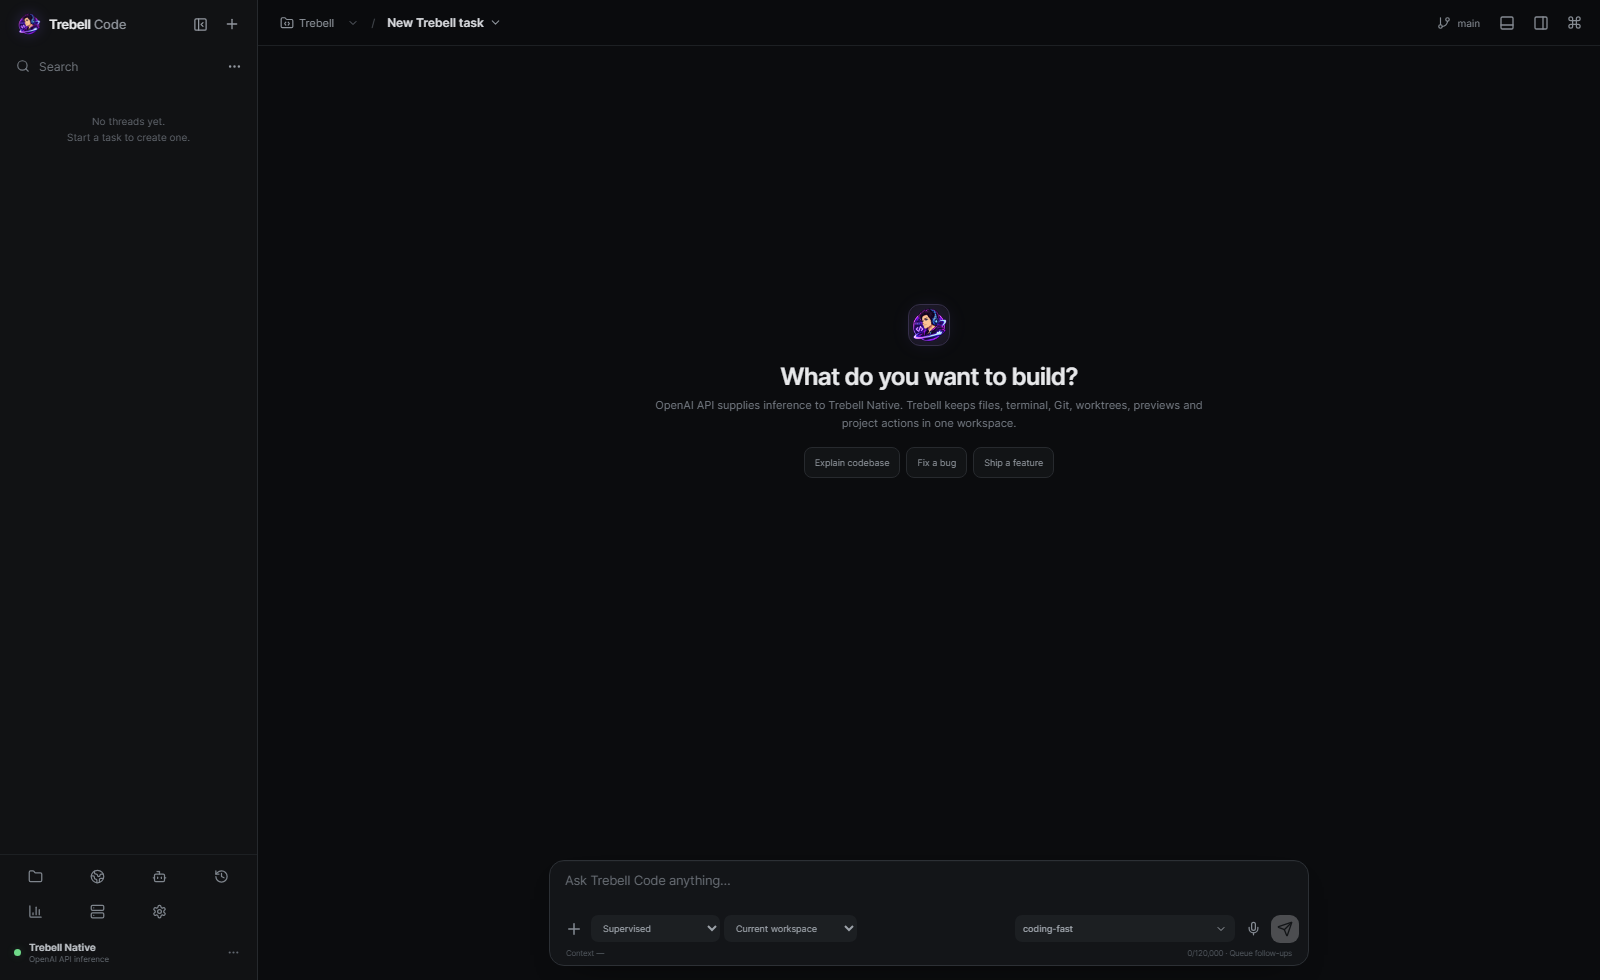
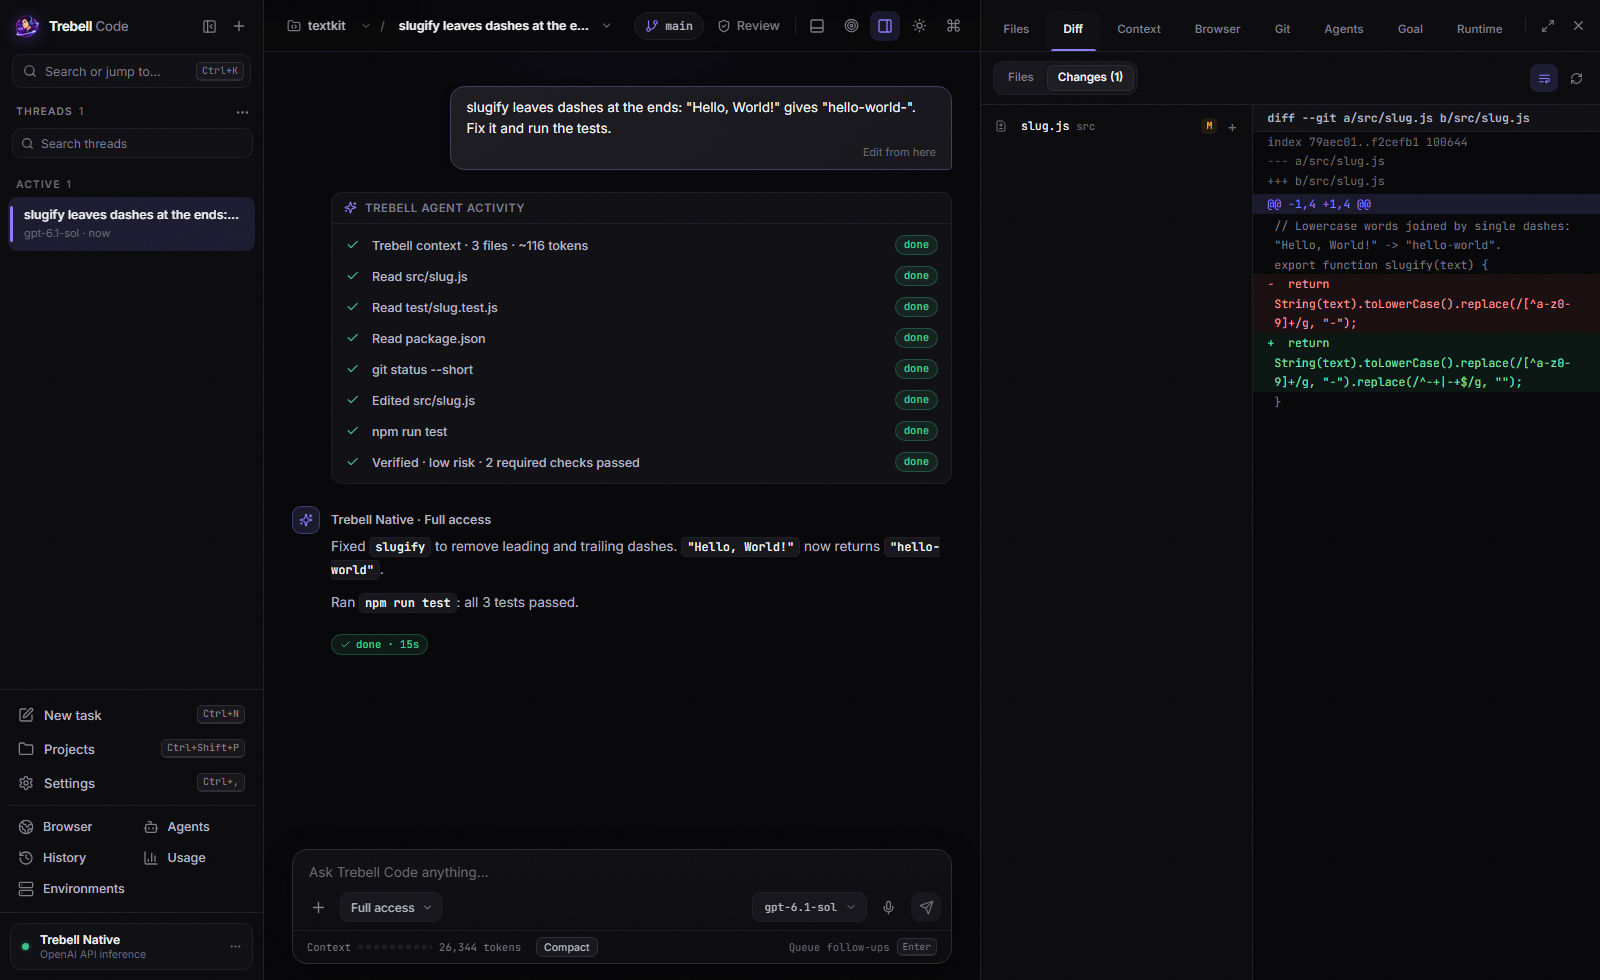
Re-capture-the-README-hero-on-the-redesigned-UI-with-a-real-Native-turn
The README hero was the pre-redesign empty screen. The new shot is one
real Trebell Native turn in the redesigned app. The task: a small demo
repository where slugify leaves dashes at the ends of "Hello, World!". It
was driven through the browser like a person would: type the bug, send,
wait for the work to settle, widen the inspector and open Diff.

The shot shows:
- the tool rows: Read, git status, Edited, "npm run test";
- "Verified · low risk · 2 required checks passed";
- the Markdown reply;
- the wrapped diff of the fix.

It is 1600x980, dark mode, with an isolated home on H:. The alt text now
says what it shows.

Each capture was read as a person would read it, and what it showed is
fixed in b7cf58a9, ed62a039, bcc9cba3, c930ce8b and 89a14929:
- tool rows without file or command names;
- npm failing to start on Windows;
- a verification row left "pending";
- cut-off diff lines and code ligatures;
- raw Markdown.

diff --git a/README.md b/README.md
@@ -10,7 +10,7 @@ Support for Codex, Claude Code, OpenCode, and other runtimes is useful for conve
 
 **Working desktop MVP · Apache-2.0 · Node.js 22+ · Windows release + macOS/Linux packaging**
 
-![Trebell Code desktop workspace](docs/assets/trebell-code-workspace.png)
+![Trebell Code workspace: Trebell Native fixes a bug, runs the tests, verifies the change and shows the diff](docs/assets/trebell-code-workspace.png)
 
 ## Why Trebell
 
